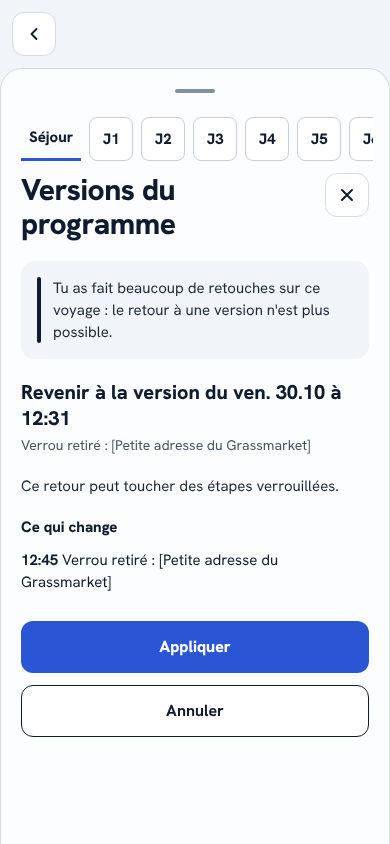
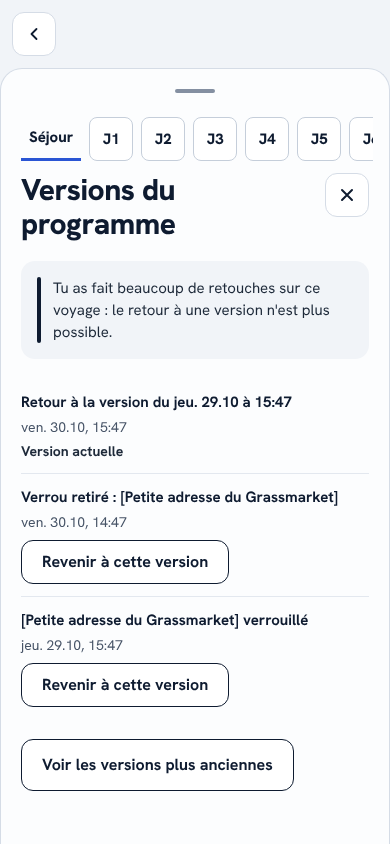
[front] M5b : capture du refus de la borne reprise après le retour à la liste (#934)
Claude-Session: https://claude.ai/code/session_01CnKUY6tgdQH2121ZnMWsMg

diff --git a/docs/ux/captures/938/README.md b/docs/ux/captures/938/README.md
@@ -11,7 +11,8 @@ compte 4 versions : la version 1 date d'avant le déblocage, et la version 4 est
 1. `TRIP_VERSIONS_PAGE_SIZE` vaut 3 au lieu de 20 (`src/contracts/values.ts`), pour faire paraître « Voir les versions plus
    anciennes » ;
 2. la borne du nombre de versions de `mock` vaut 5 au lieu de `VERSIONS_MAX_PAR_VOYAGE` (`src/adapters/index.ts`), pour
-   obtenir le refus de la borne au second retour ;
+   obtenir le refus de la borne au second retour. La capture 9 a été reprise seule, avec les forçages 1 et 2, après la
+   correction des bloquants tardifs ;
 3. l'aperçu vers la version 2 rend `currentHasLockedStop` faux (`src/adapters/mock-versions.ts`), pour l'aperçu sans la
    phrase des étapes verrouillées : le jeu simulé a toujours une étape verrouillée, un engagement.
 
@@ -29,7 +30,7 @@ bloquées pendant la capture.
 | `m5b-6-apercu-sans-phrase-390.png` | Aperçu sans la phrase des étapes verrouillées : « Rien ne change dans ton programme. » (forçage 3) |
 | `m5b-7-liste-hors-ligne-390.png` | Liste hors ligne : bandeau `offline`, « Revenir à cette version » en `aria-disabled` (correction 1, mineur 5) |
 | `m5b-8-toast-retabli-390.png` | Après « Appliquer » : retour au Séjour, toast « Programme rétabli. » avec « Annuler » |
-| `m5b-9-bandeau-erreur-390.png` | Bandeau d'erreur : refus de la borne, « Tu as fait beaucoup de retouches sur ce voyage : le retour à une version n'est plus possible. » (forçage 2) |
+| `m5b-9-bandeau-erreur-390.png` | Bandeau d'erreur après un premier retour (version 5, « Version actuelle ») : « Appliquer » vers « Verrou retiré », version 4, refusé par la borne. Retour à la liste sans « Appliquer » : « Tu as fait beaucoup de retouches sur ce voyage : le retour à une version n'est plus possible. » (forçage 2 ; reprise après les bloquants tardifs du head `5cca917`) |
 
 **Références visuelles de la CI** : inchangées. Aucune référence de `tests/visual/` ne montre le Séjour d'un voyage
 débloqué sous `/voyages` : elles sont prises sous `/dev/voyages`, où `routes.versions()` vaut `null`, ou sur une Journée.
